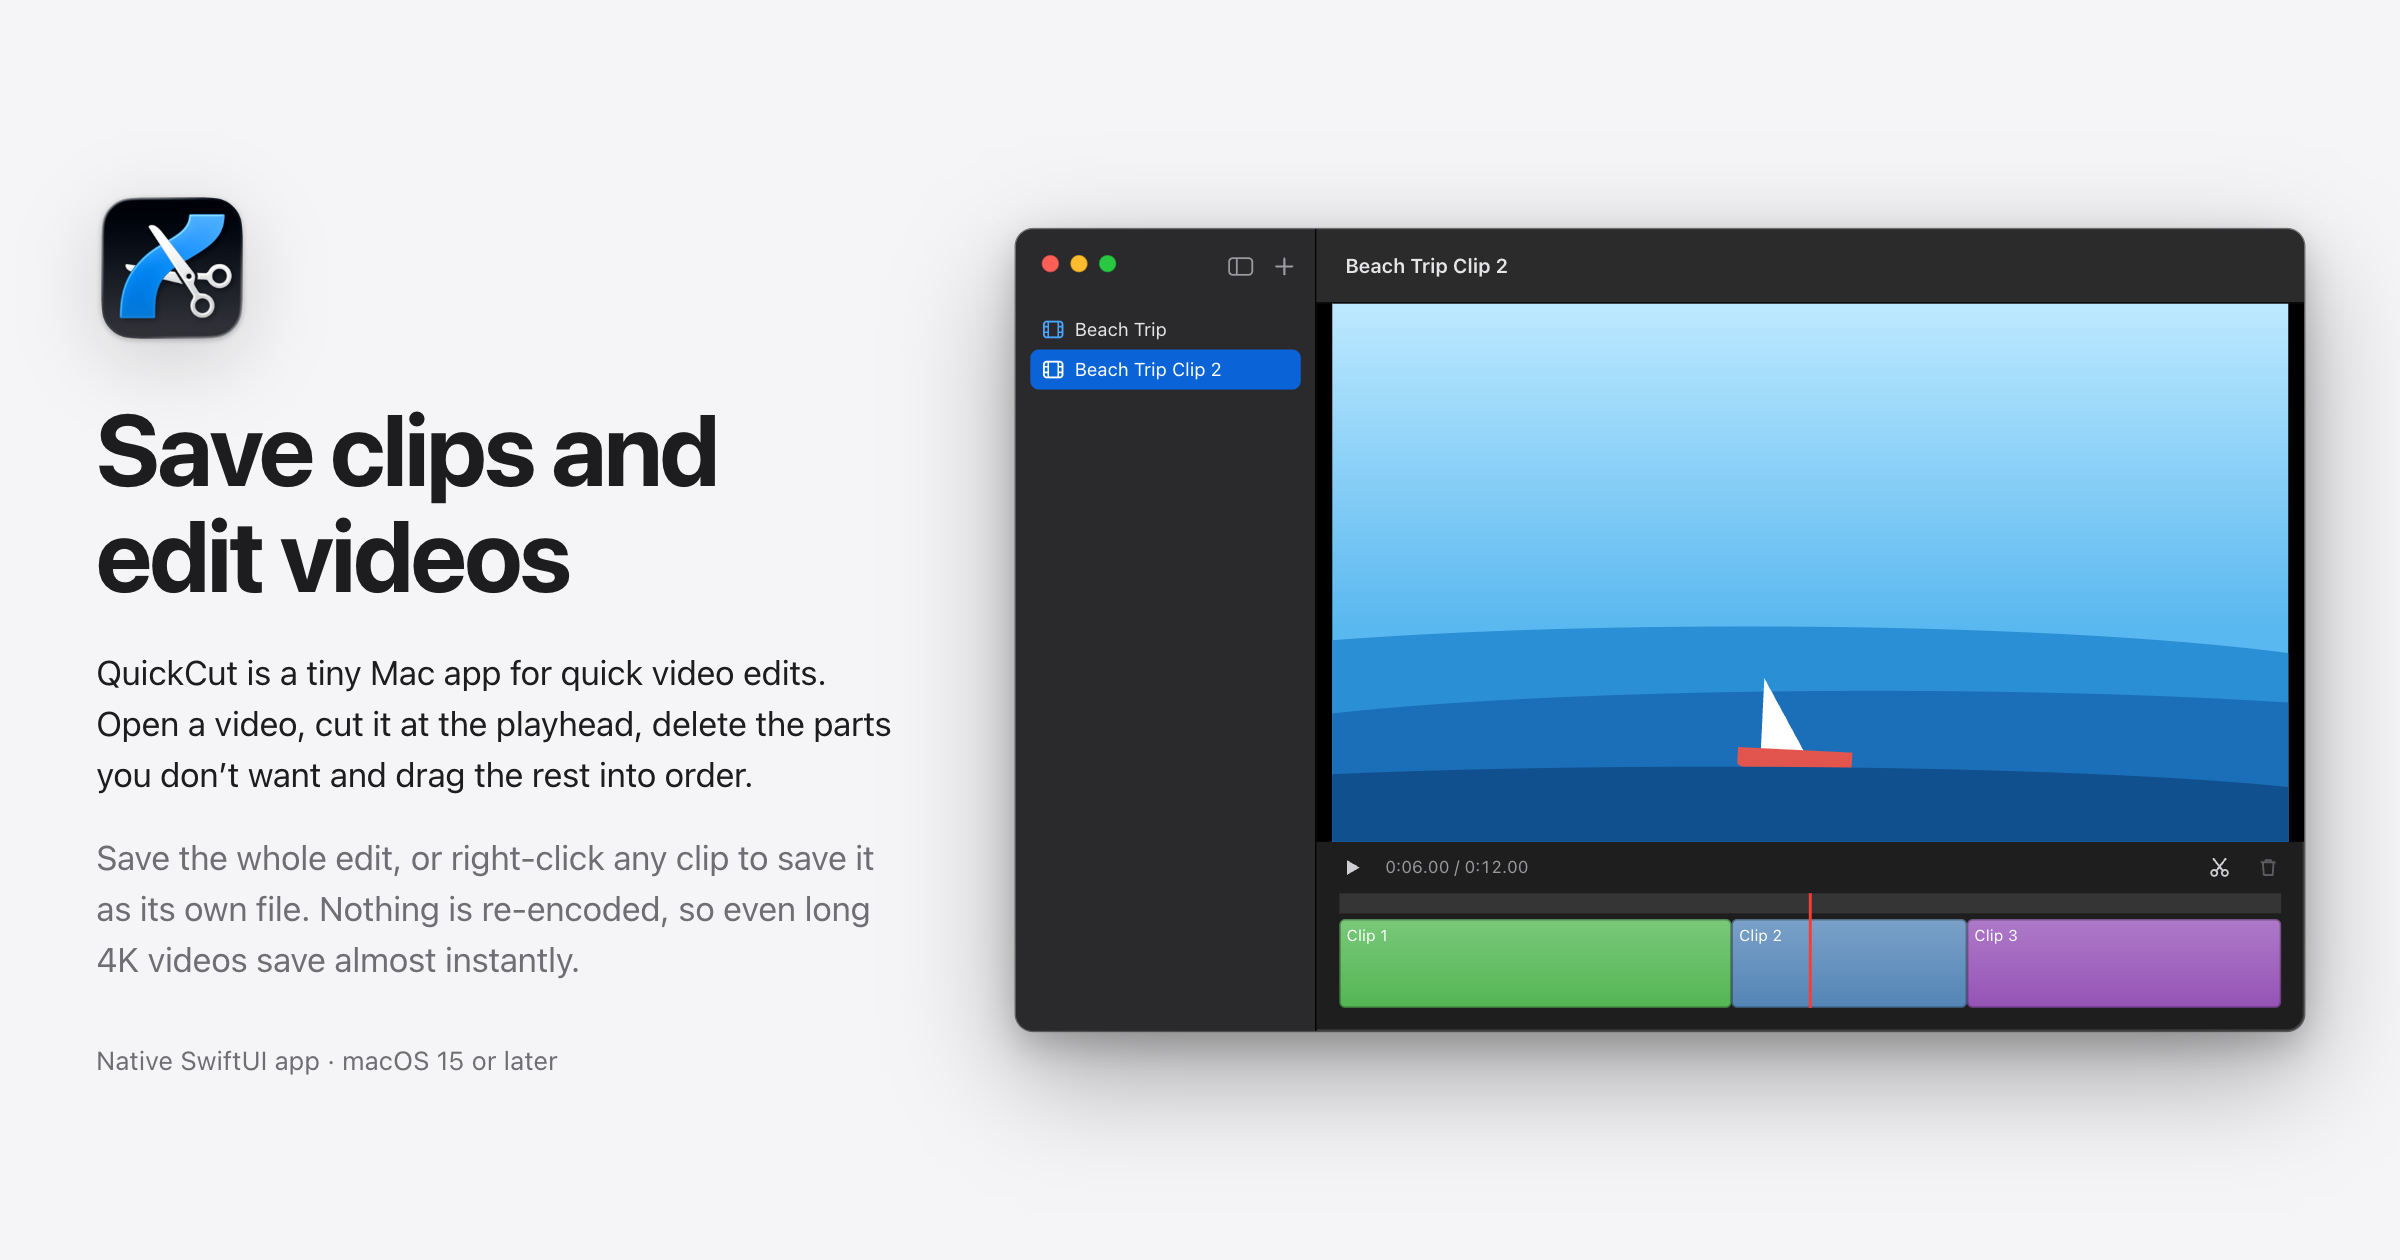
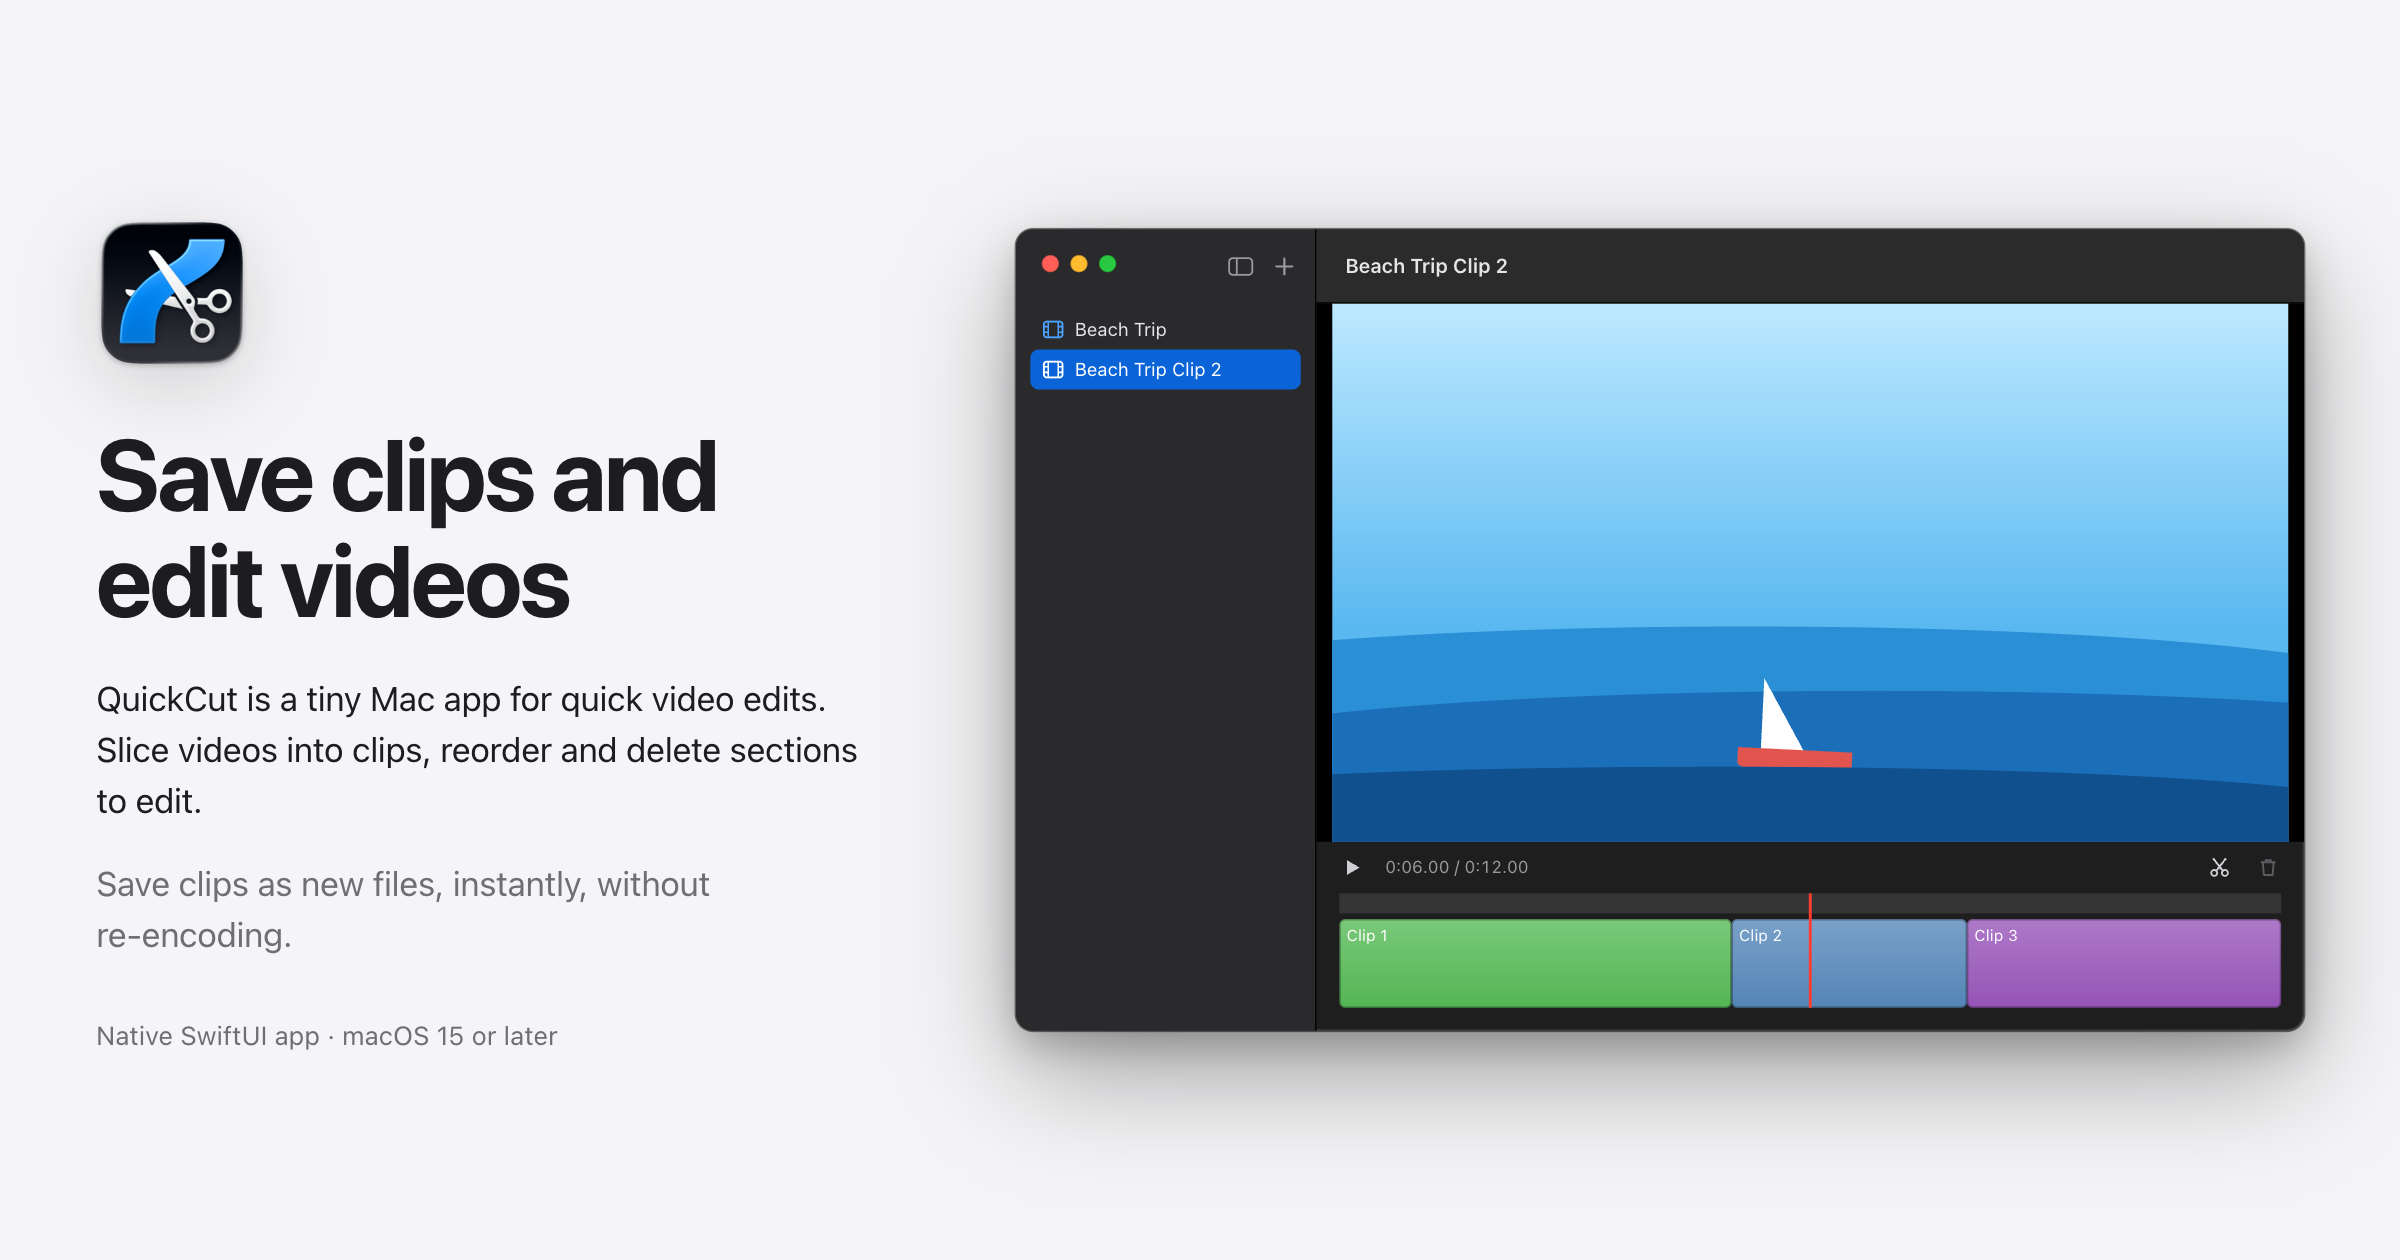
New hero copy on the site and OG image

diff --git a/docs/index.html b/docs/index.html
@@ -25,8 +25,8 @@
   <div class="copy">
     <img class="app-icon" src="icon.png" alt="QuickCut app icon" width="88" height="88">
     <h1>Save clips and edit videos</h1>
-    <p>QuickCut is a tiny Mac app for quick video edits. Open a video, cut it at the playhead, delete the parts you don’t want and drag the rest into order.</p>
-    <p>Save the whole edit, or right-click any clip to save it as its own file. Nothing is re-encoded, so even long 4K videos save almost instantly.</p>
+    <p>QuickCut is a tiny Mac app for quick video edits. Slice videos into clips, reorder and delete sections to edit.</p>
+    <p>Save clips as new files, instantly, without re-encoding.</p>
     <a class="btn" href="https://github.com/fabiogiolito/quickcut/releases/latest">Download QuickCut</a>
     <p class="req">Native SwiftUI app · macOS 15 or later</p>
   </div>
